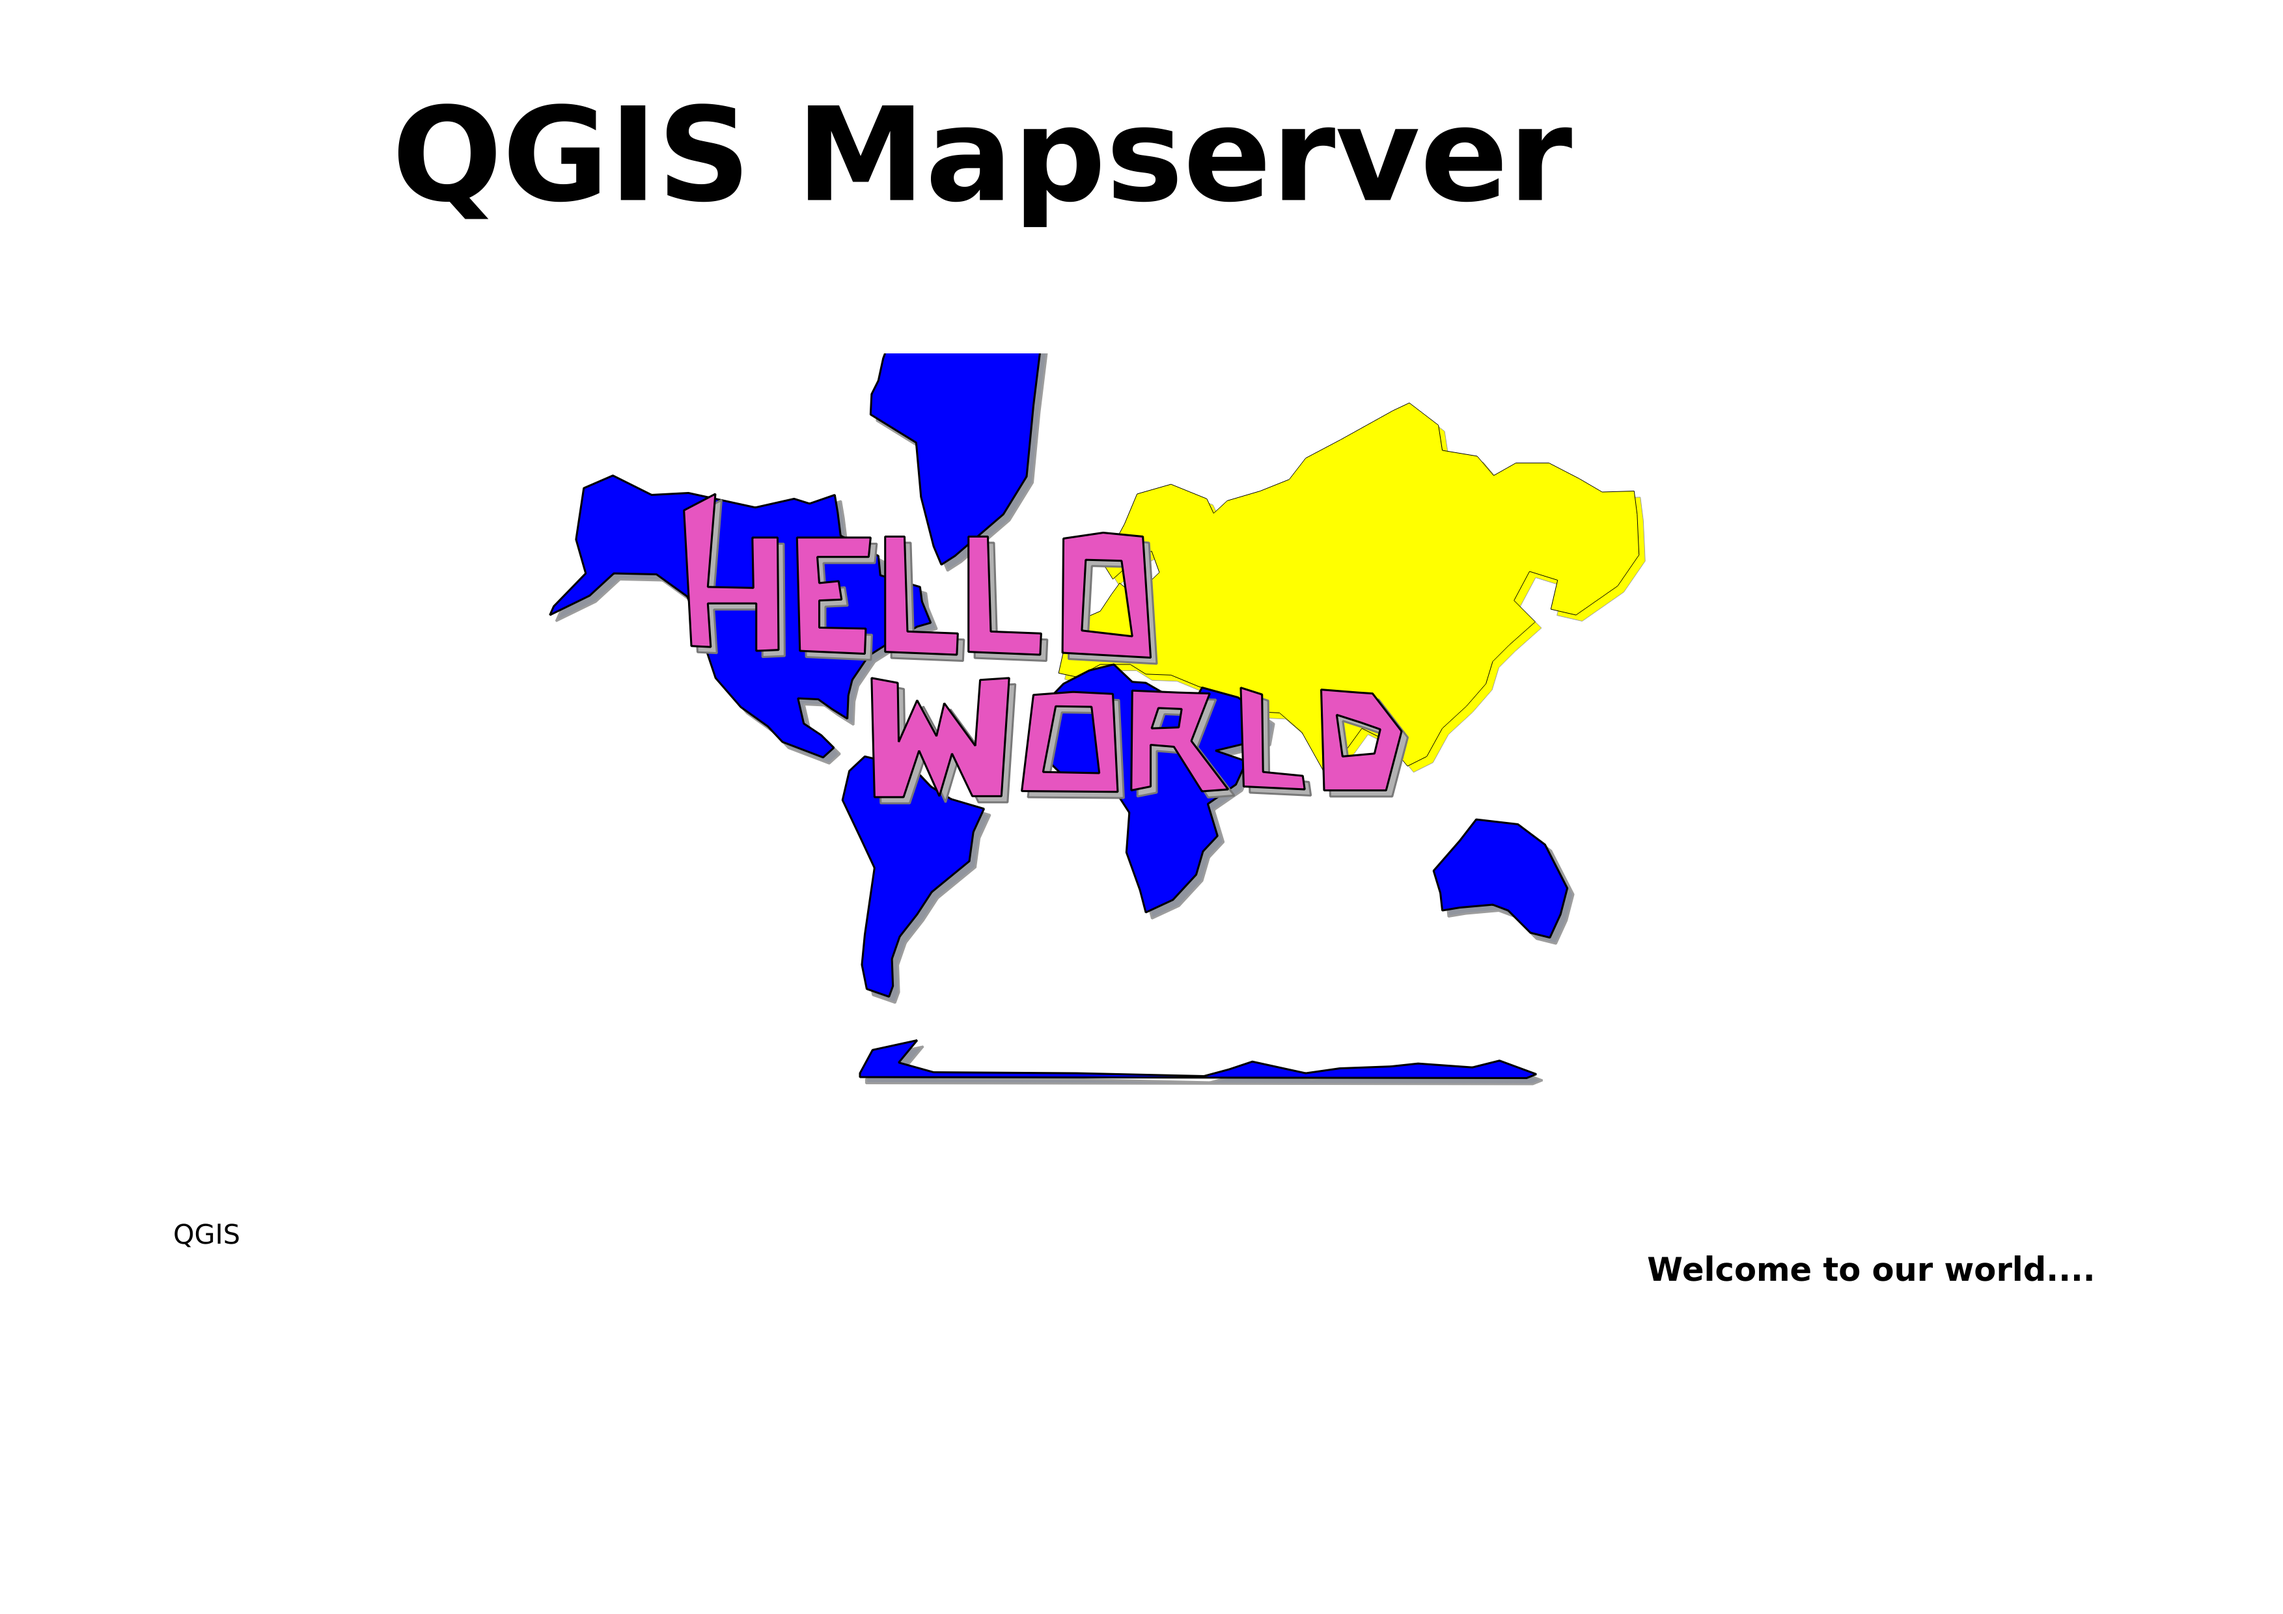
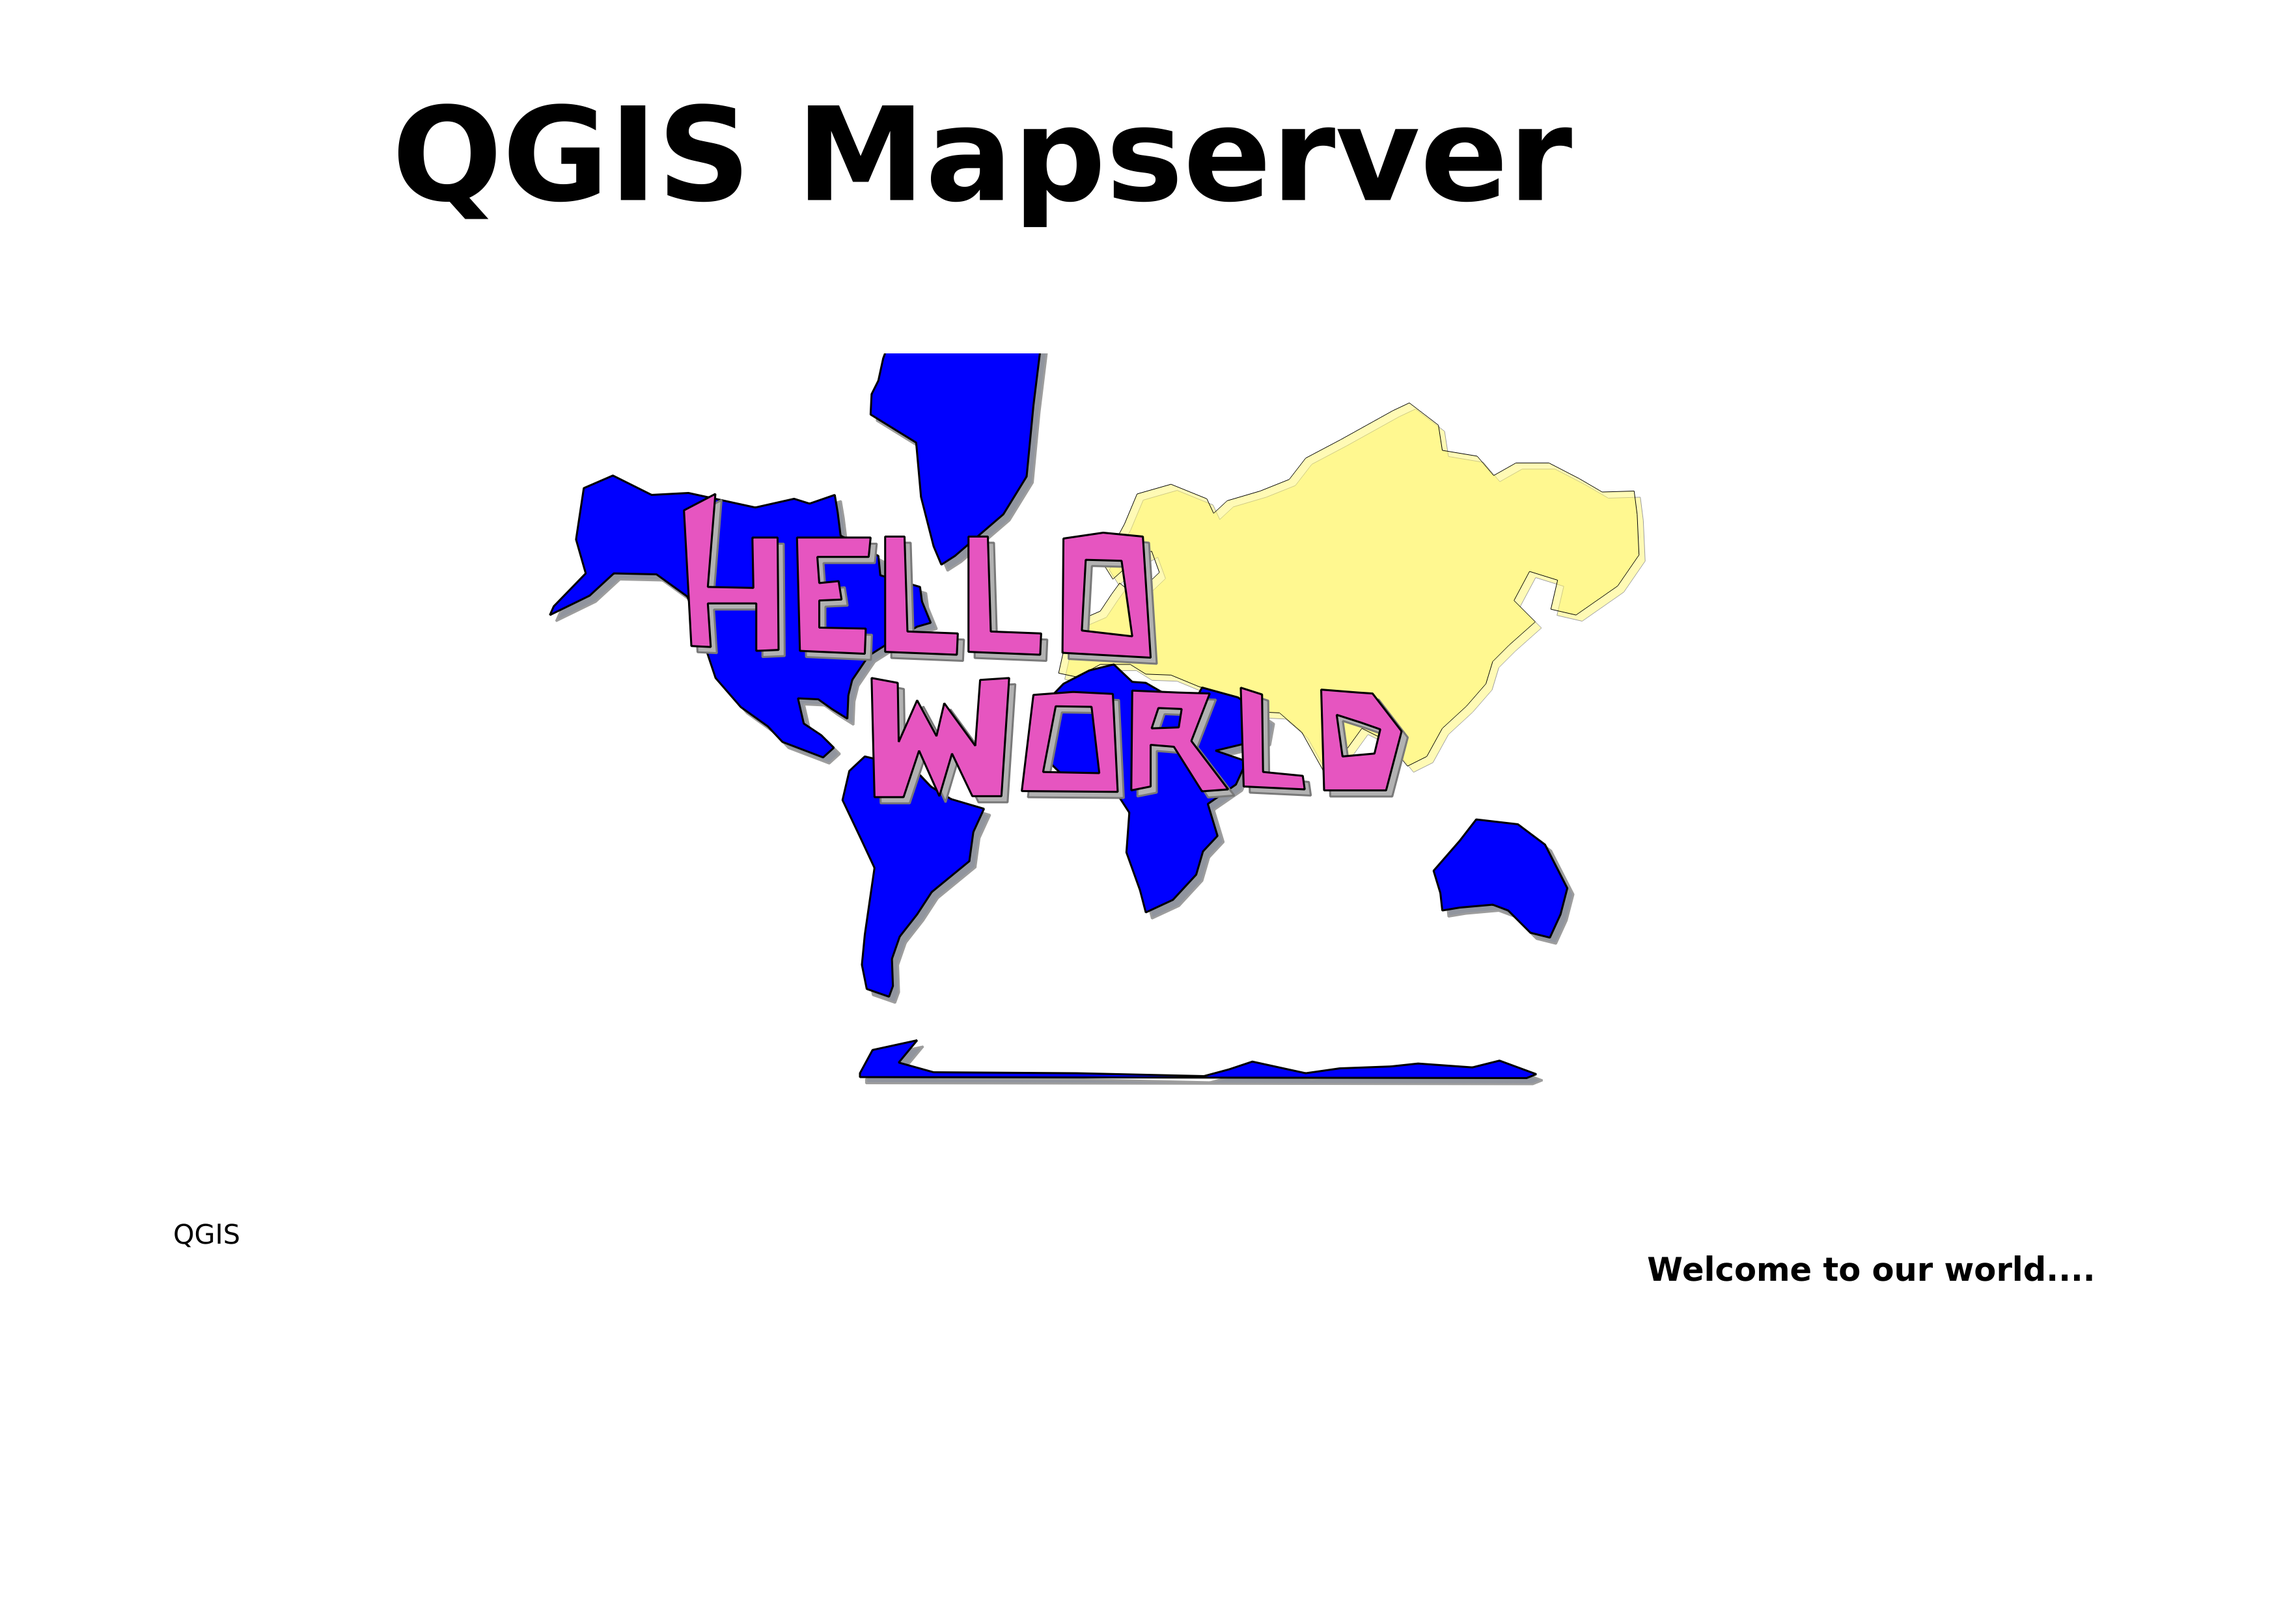
[Server] Use Project selection color in GetPrint for 2.18
QGIS Server uses QgsMapRenderer and not QgsMapSettings to configure maps
rendering, and color selection was not transmitted between QgsMapRenderer and
QgsMapSettings and between mapSettings and jobMapSettings in QgsMapComposer.

This commit completes:
* [Server] Reactivate the capability to print selection with Server 2.18 3d0f1b6f655ae982e6eccaf14f487f7f04a2e58d
* [Server] Read and activate selection color 79a212ee73ed0d93d1ce7466a926b73875b8b30a

Changed region(s): [[0.4662, 0.2484, 0.7459, 0.4657]]

diff --git a/src/core/qgsmaprenderer.cpp b/src/core/qgsmaprenderer.cpp
@@ -1268,6 +1268,15 @@ const QgsMapSettings& QgsMapRenderer::mapSettings()
   mMapSettings.setCrsTransformEnabled( hasCrsTransformEnabled() );
   mMapSettings.setDestinationCrs( destinationCrs() );
   mMapSettings.setMapUnits( mapUnits() );
+
+  // set selection color
+  QgsProject* prj = QgsProject::instance();
+  int myRed = prj->readNumEntry( "Gui", "/SelectionColorRedPart", 255 );
+  int myGreen = prj->readNumEntry( "Gui", "/SelectionColorGreenPart", 255 );
+  int myBlue = prj->readNumEntry( "Gui", "/SelectionColorBluePart", 0 );
+  int myAlpha = prj->readNumEntry( "Gui", "/SelectionColorAlphaPart", 255 );
+  mMapSettings.setSelectionColor( QColor( myRed, myGreen, myBlue, myAlpha ) );
+
   return mMapSettings;
 }
 

diff --git a/src/core/composer/qgscomposermap.cpp b/src/core/composer/qgscomposermap.cpp
@@ -231,6 +231,7 @@ QgsMapSettings QgsComposerMap::mapSettings( const QgsRectangle& extent, QSizeF s
   jobMapSettings.setCrsTransformEnabled( ms.hasCrsTransformEnabled() );
   jobMapSettings.setFlags( ms.flags() );
   jobMapSettings.setFlag( QgsMapSettings::DrawSelection, mDrawSelection );
+  jobMapSettings.setSelectionColor( ms.selectionColor() );
   jobMapSettings.setFlag( QgsMapSettings::RenderPartialOutput, false );
 
   if ( mComposition->plotStyle() == QgsComposition::Print ||
